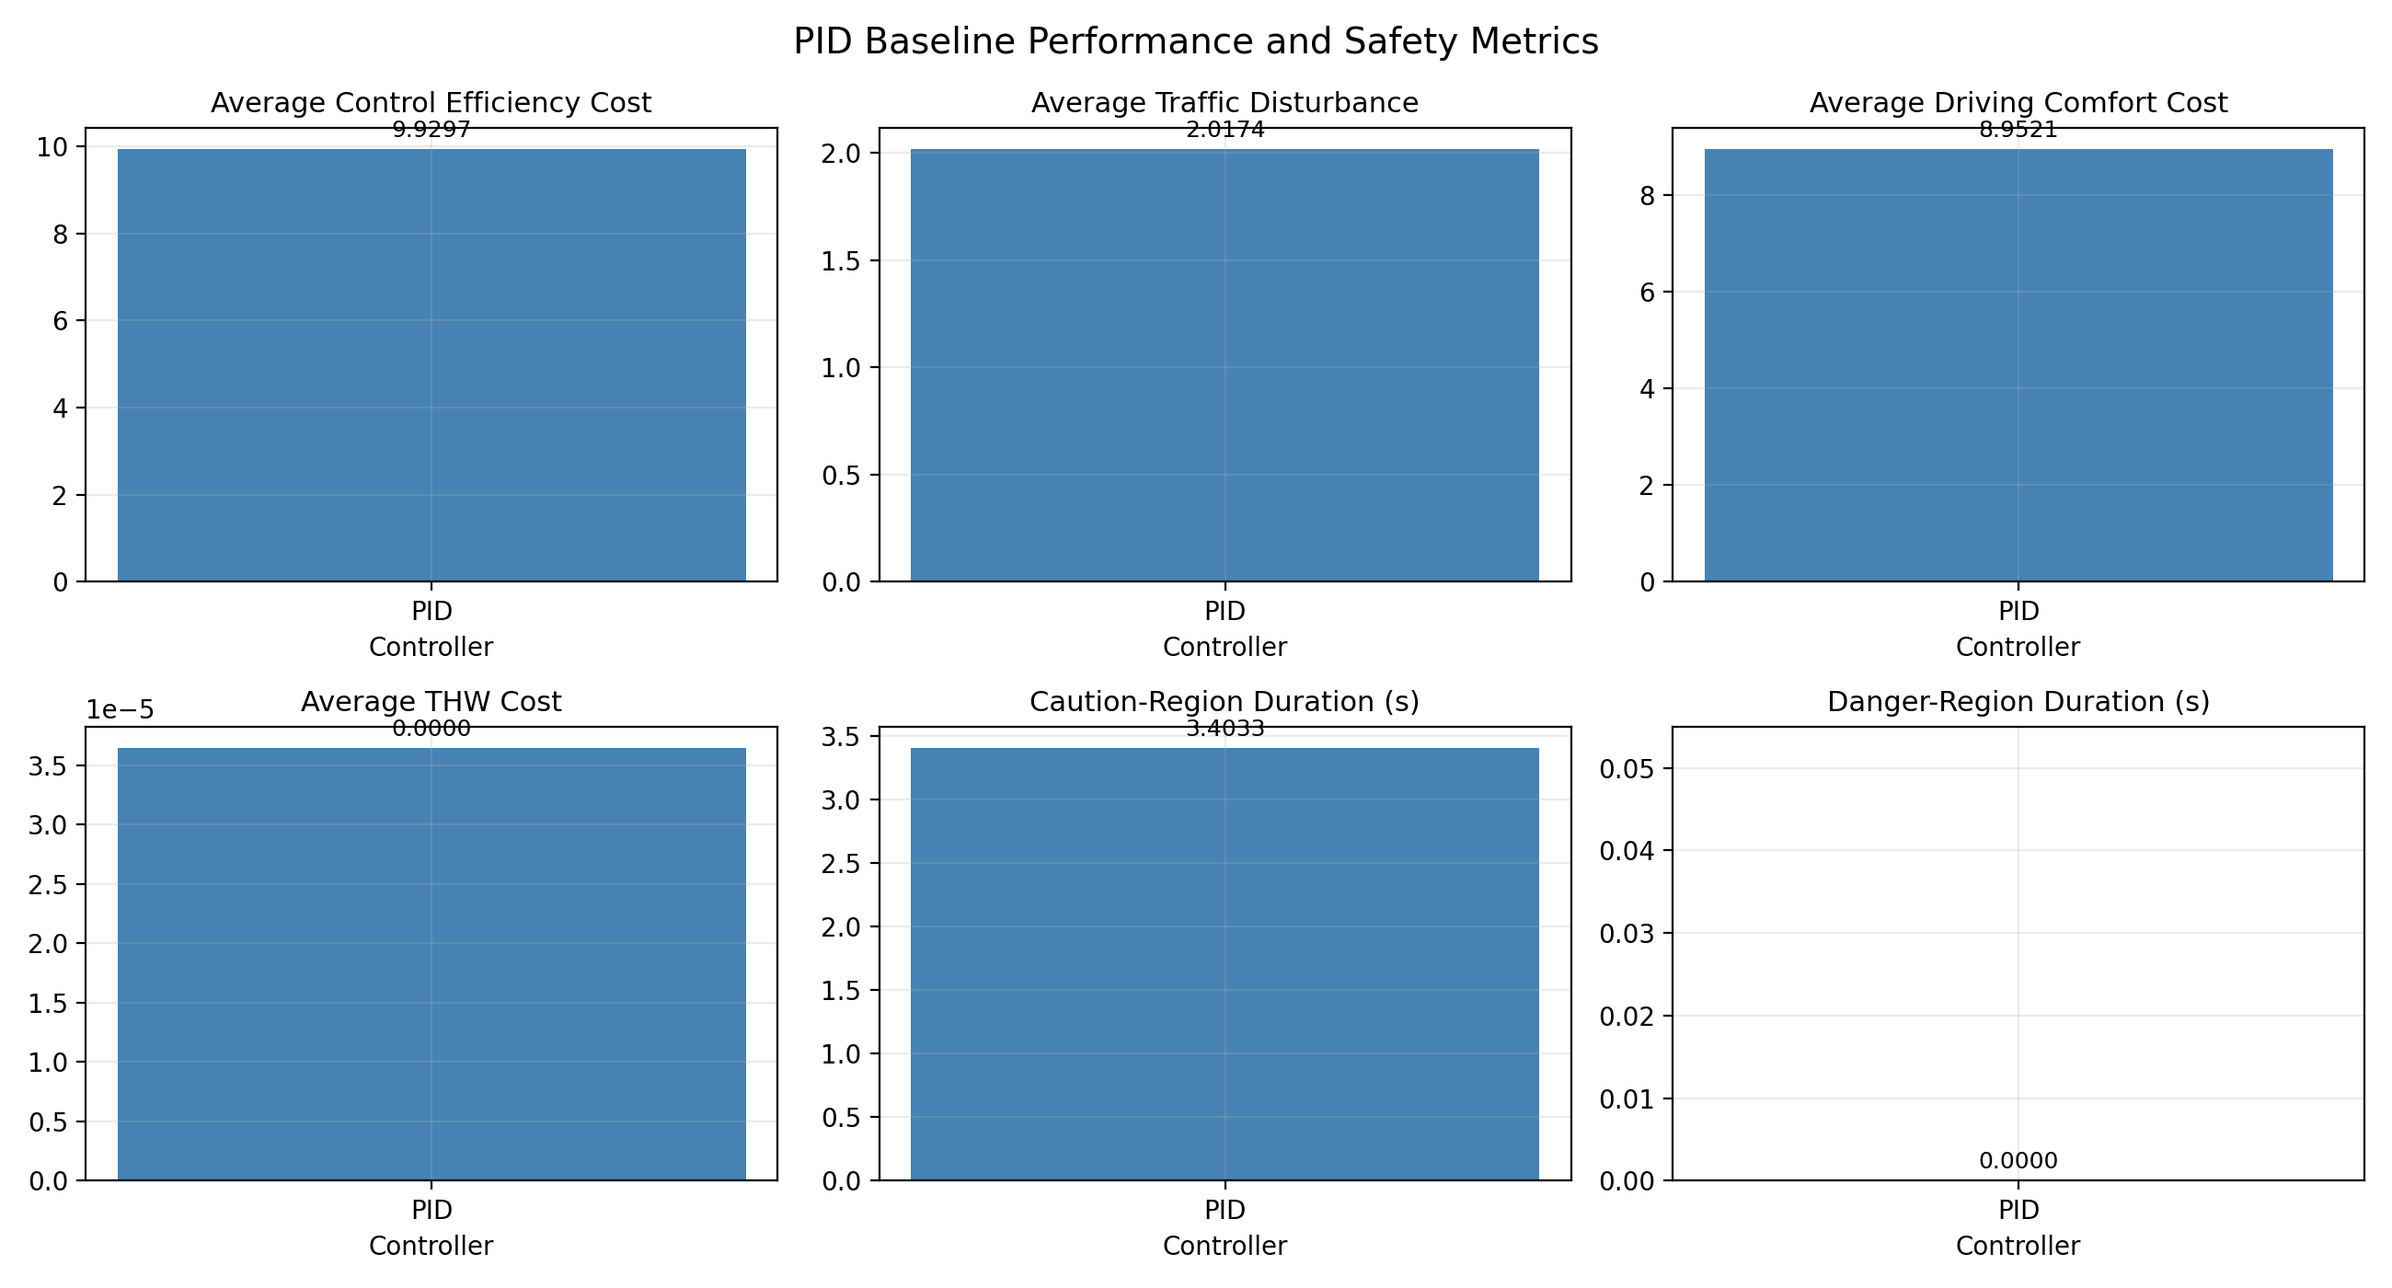
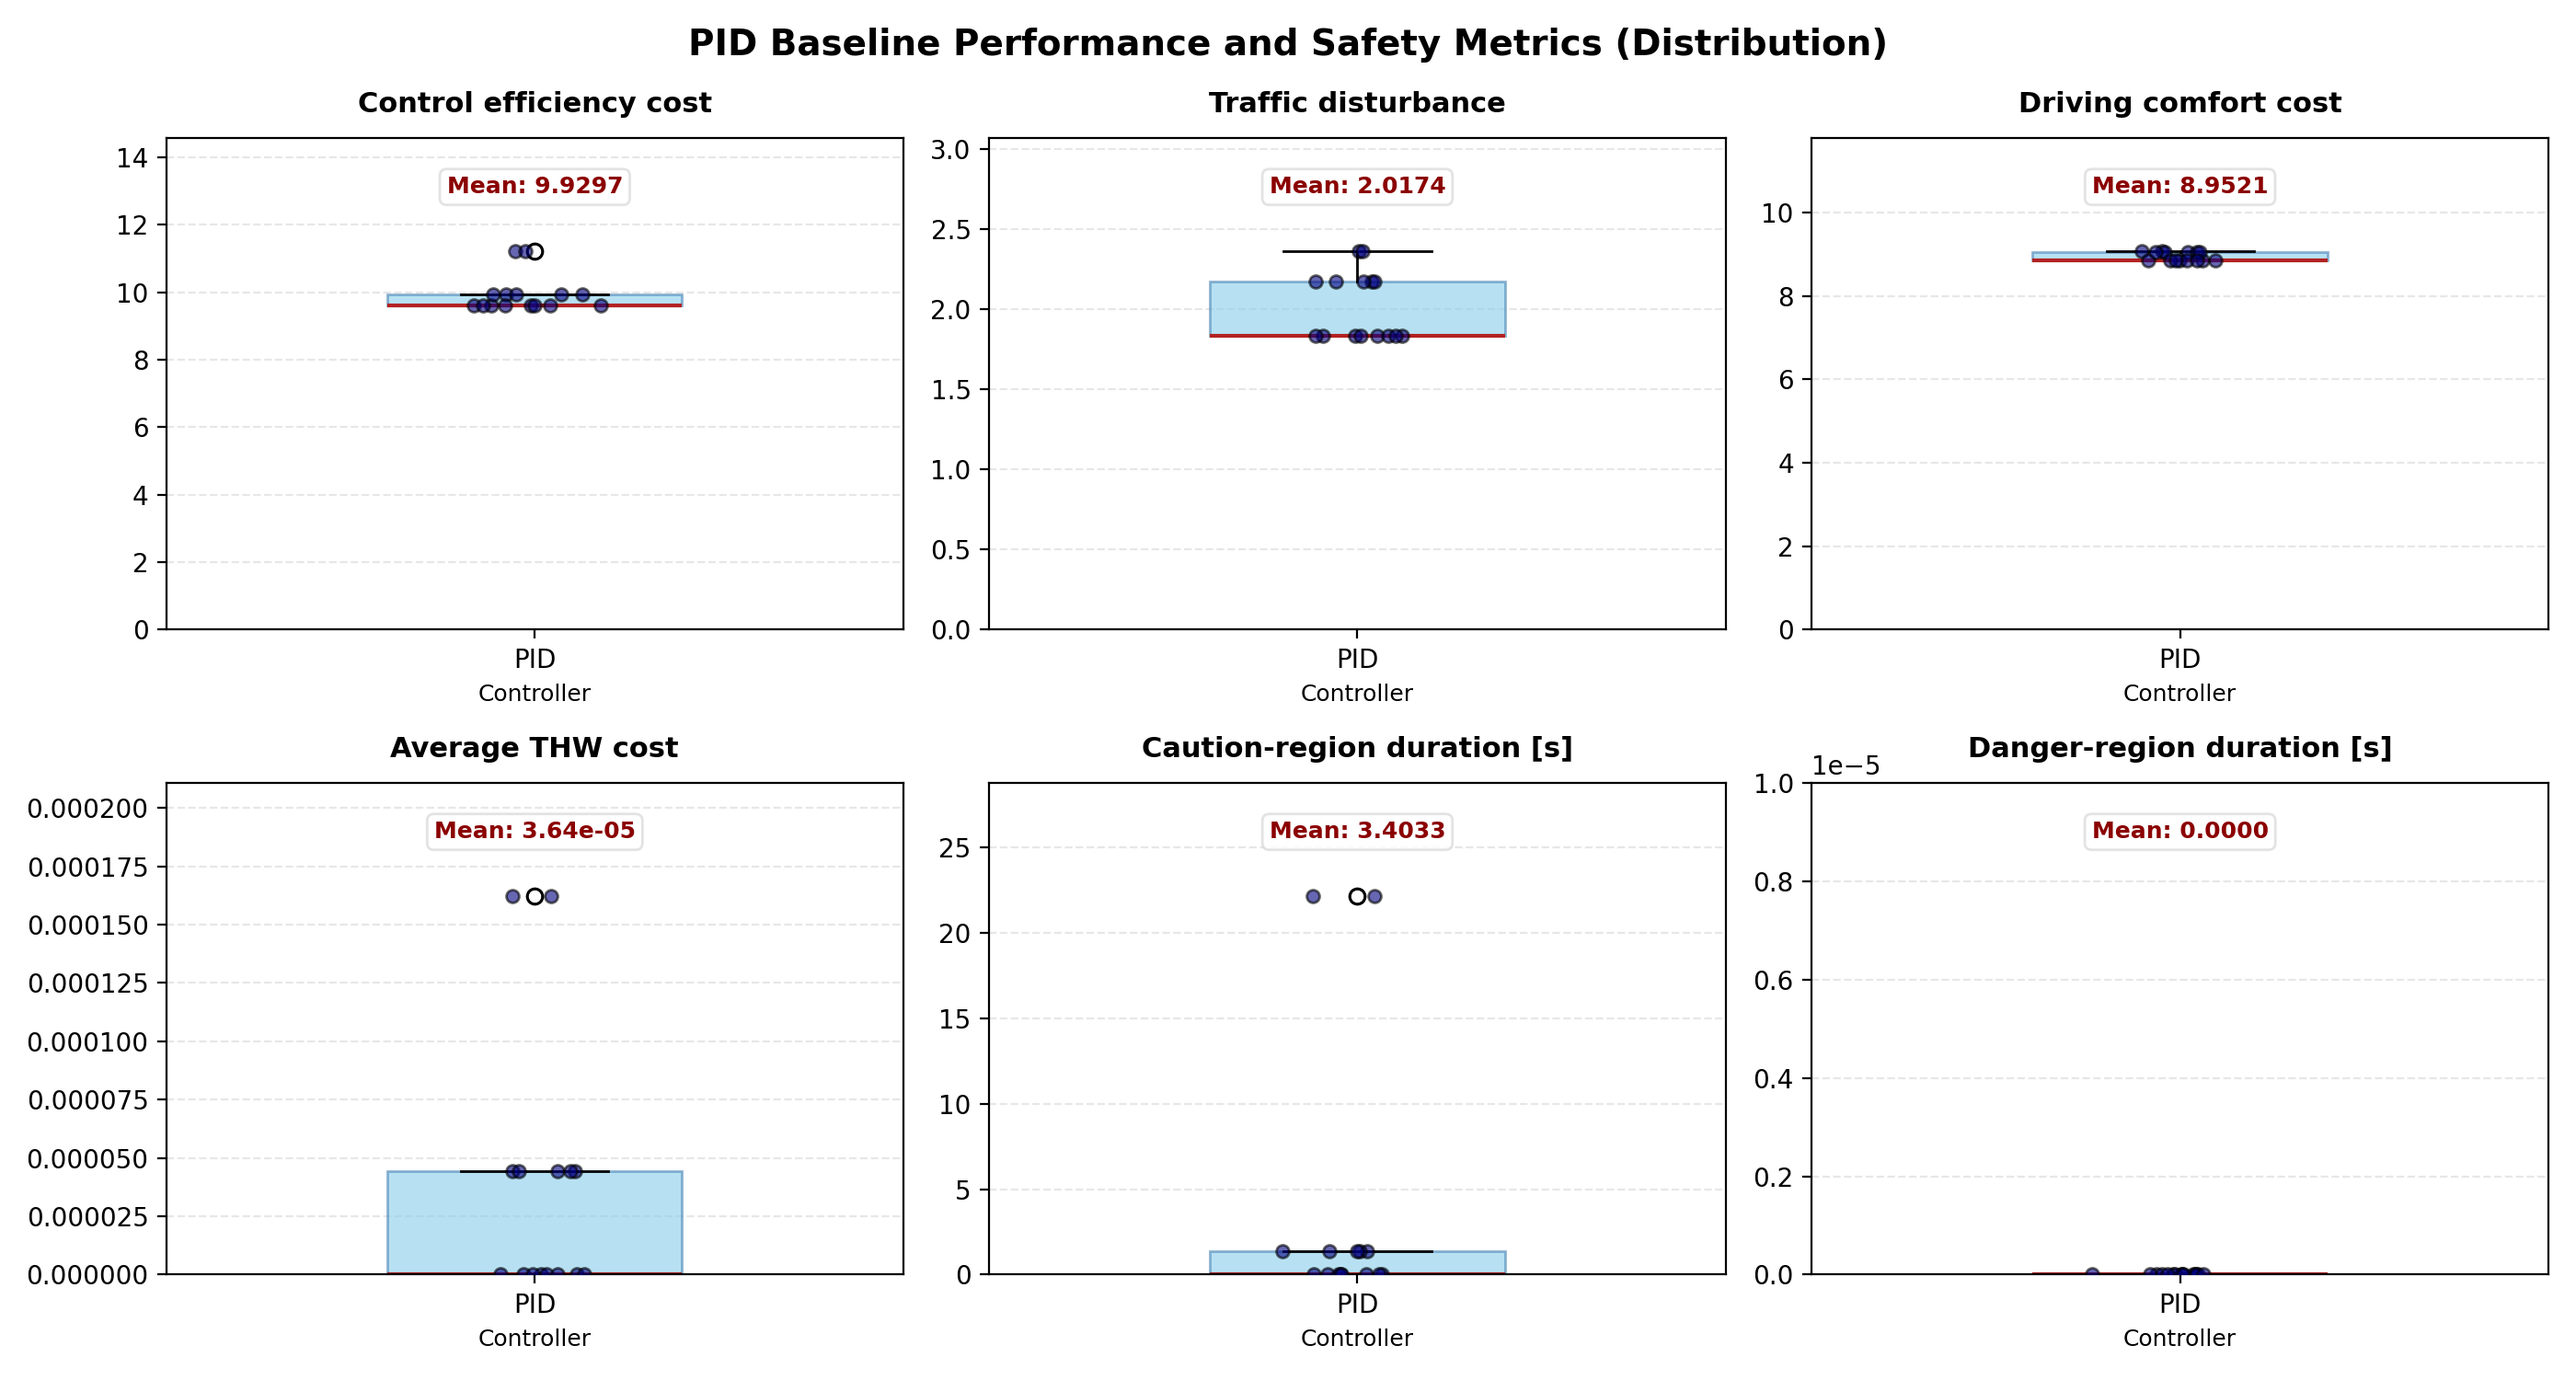
update pid baseline

diff --git a/plot_pid_metrics.py b/plot_pid_metrics.py
@@ -39,7 +39,6 @@ def summarize_pid_csv(csv_path, thw_safe=1.5, thw_danger=0.8):
     follower_speed = df["follower_speed_mps"].to_numpy()
     distance = df["distance_m"].to_numpy()
 
-    # 스무딩 적용
     acceleration = np.gradient(follower_speed, dt)
     acceleration = uniform_filter1d(acceleration, size=5)
     jerk = np.gradient(acceleration, dt)
@@ -69,35 +68,60 @@ def summarize_pid_csv(csv_path, thw_safe=1.5, thw_danger=0.8):
     }
 
 
-def plot_pid_metrics(summary, out_path):
+def plot_pid_metrics(summary_df, out_path):
     metrics = [
-        ("control_efficiency_cost", "Average Control Efficiency Cost"),
-        ("traffic_disturbance", "Average Traffic Disturbance"),
-        ("driving_comfort_cost", "Average Driving Comfort Cost"),
-        ("average_thw_cost", "Average THW Cost"),
-        ("caution_region_duration", "Caution-Region Duration (s)"),
-        ("danger_region_duration", "Danger-Region Duration (s)"),
+        ("control_efficiency_cost", "Control efficiency cost"),
+        ("traffic_disturbance", "Traffic disturbance"),
+        ("driving_comfort_cost", "Driving comfort cost"),
+        ("average_thw_cost", "Average THW cost"),
+        ("caution_region_duration", "Caution-region duration [s]"),
+        ("danger_region_duration", "Danger-region duration [s]"),
     ]
 
-    fig, axes = plt.subplots(2, 3, figsize=(13, 7))
+    fig, axes = plt.subplots(2, 3, figsize=(14, 7.5))
     axes = axes.ravel()
 
     for ax, (key, title) in zip(axes, metrics):
-        value = summary[key]
-        bars = ax.bar(["PID"], [value], color="steelblue", width=0.4)
-        ax.set_title(title, fontsize=11)
-        ax.set_xlabel("Controller")
-        ax.set_ylim(bottom=0)
-        ax.bar_label(bars, fmt="%.4f", padding=3, fontsize=9)
-        ax.grid(True, alpha=0.25)
+        values = summary_df[key].to_numpy()
+        mean_value = float(values.mean())
 
-    fig.suptitle("PID Baseline Performance and Safety Metrics", fontsize=14)
+        ax.boxplot(
+            values,
+            labels=["PID"],
+            widths=0.4,
+            patch_artist=True,
+            boxprops=dict(facecolor="skyblue", color="steelblue", alpha=0.6),
+            medianprops=dict(color="firebrick", linewidth=1.5),
+        )
+
+        x_jitter = np.random.normal(1, 0.04, size=len(values))
+        ax.scatter(x_jitter, values, alpha=0.6, color="navy", edgecolor="black", s=25, zorder=3)
+
+        ax.set_title(title, fontsize=11, fontweight="bold", pad=10)
+        ax.set_xlabel("Controller", fontsize=9)
+
+        y_max = max(values)
+        ax.set_ylim(bottom=0, top=max(y_max * 1.3, 1e-5))
+        ax.grid(True, axis="y", alpha=0.3, linestyle="--")
+
+        if abs(mean_value) < 0.001 and mean_value != 0:
+            label = f"Mean: {mean_value:.2e}"
+        else:
+            label = f"Mean: {mean_value:.4f}"
+
+        ax.text(
+            1, ax.get_ylim()[1] * 0.9, label,
+            ha="center", va="center",
+            fontsize=9, fontweight="bold", color="darkred",
+            bbox=dict(boxstyle="round,pad=0.3", facecolor="white", edgecolor="gainsboro", alpha=0.8),
+        )
+
+    fig.suptitle("PID Baseline Performance and Safety Metrics (Distribution)", fontsize=14, fontweight="bold")
     fig.tight_layout()
 
     out_path = Path(out_path)
     out_path.parent.mkdir(parents=True, exist_ok=True)
     fig.savefig(out_path, dpi=200)
-
     print(f"Saved figure: {out_path}")
 
 
@@ -116,19 +140,21 @@ def main():
     ]
 
     summary_df = pd.DataFrame(summaries)
-    mean_summary = summary_df.drop(columns=["csv_path"]).mean().to_dict()
 
     out_path = Path(args.out)
+    out_path.parent.mkdir(parents=True, exist_ok=True)
+
     summary_csv_path = out_path.with_suffix(".csv")
-
     summary_df.to_csv(summary_csv_path, index=False)
-    print(f"Saved summary CSV: {summary_csv_path}")
 
+    mean_summary = summary_df.drop(columns=["csv_path"]).mean().to_dict()
+
+    print(f"Saved summary CSV: {summary_csv_path}")
     print("\nMean metrics:")
     for key, value in mean_summary.items():
-        print(f"  {key}: {value:.4f}")
+        print(f"  {key}: {value:.6f}")
 
-    plot_pid_metrics(mean_summary, out_path)
+    plot_pid_metrics(summary_df, out_path)
 
 
 if __name__ == "__main__":
